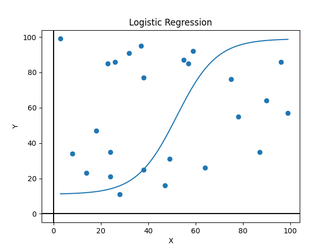
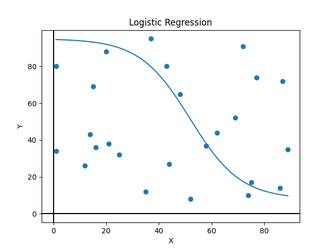
Logistic curve

diff --git a/analyze.py b/analyze.py
@@ -10,85 +10,85 @@ from sklearn.metrics import confusion_matrix
 
 
 class Analyzer(object):
-    def __init__(self):
-        self.debug = Debugger()
+  def __init__(self):
+    self.debug = Debugger()
 
-    def class_name(self):
-        return "Analyzer"
+  def class_name(self):
+    return "Analyzer"
 
-    def get_confusion_matrix(self, model, threshold):  # Harry
-        # model --> Model
-        ds = model.get_dataset()
-        y_true = ds.get_output_col()  # --> [5,3,8,1,6,0] = y_true
-        y_pred = []
-        for x in ds.get_input_cols():
-            y_pred.append(model.get_f()(x))
-        #                     f(x)
-        #                           vs.  y
-        tp, tn, fp, fn = []
-        for y_p, y_t in zip(y_pred, y_true):
-            if y_t > threshold:
-                if y_p > threshold:
-                    tp += 1
-                else:
-                    fn += 1
-            else:
-                if y_p > threshold:
-                    fp += 1
-                else:
-                    tn += 1
-        return [[tp, fp], [fn, tn]]
+  def get_confusion_matrix(self, model, threshold):
+    # model --> Model
+    ds = model.get_dataset()
+    y_true = ds.get_output_col()  # --> [5,3,8,1,6,0] = y_true
+    y_pred = []
+    for x in ds.get_input_cols():
+      y_pred.append(model.get_f()(x))
+    #                     f(x)
+    #                           vs.  y
+    tp, tn, fp, fn = []
+    for y_p, y_t in zip(y_pred, y_true):
+      if y_t > threshold:
+        if y_p > threshold:
+          tp += 1
+        else:
+          fn += 1
+      else:
+        if y_p > threshold:
+          fp += 1
+        else:
+          tn += 1
+      return [[tp, fp], [fn, tn]]
 
-    def get_tp(self, model, threshold):
-        return self.get_confusion_matrix(model, threshold)[0][0]
+  def get_tp(self, model, threshold):
+      return self.get_confusion_matrix(model, threshold)[0][0]
 
-    def get_fp(self, model, threshold):
-        return self.get_confusion_matrix(model, threshold)[1][0]
+  def get_fp(self, model, threshold):
+      return self.get_confusion_matrix(model, threshold)[1][0]
 
-    def get_fn(self, model, threshold):
-        return self.get_confusion_matrix(model, threshold)[0][1]
+  def get_fn(self, model, threshold):
+      return self.get_confusion_matrix(model, threshold)[0][1]
 
-    def get_tn(self, model, threshold):
-        return self.get_confusion_matrix(model, threshold)[1][1]
+  def get_tn(self, model, threshold):
+      return self.get_confusion_matrix(model, threshold)[1][1]
 
-    def get_specificity(self, model, threshold):  # Harry
-        # https://en.wikipedia.org/wiki/Sensitivity_and_specificity
-        tn = self.get_tn()
-        fp = self.get_fp()
-        return (tn / (tn + fp))
+  def get_specificity(self, model, threshold):  # Harry
+      # https://en.wikipedia.org/wiki/Sensitivity_and_specificity
+      tn = self.get_tn()
+      fp = self.get_fp()
+      return (tn / (tn + fp))
 
-    def get_sensitivity(self):  # Harry
-        tp = self.get_tp()
-        fn = self.get_fn()
-        return (tp / (tp + fn))
+  def get_sensitivity(self):  # Harry
+      tp = self.get_tp()
+      fn = self.get_fn()
+      return (tp / (tp + fn))
 
-    def get_precision(self):  # Harry
-        tp = self.get_tp()
-        fp = self.get_fp()
-        return (tp / (tp + fp))
+  def get_precision(self):  # Harry
+      tp = self.get_tp()
+      fp = self.get_fp()
+      return (tp / (tp + fp))
 
-    def get_recall(self):  # Harry
-        tp = self.get_tp()
-        fn = self.get_fn()
-        return (tp / (tp + fn))
+  def get_recall(self):  # Harry
+      tp = self.get_tp()
+      fn = self.get_fn()
+      return (tp / (tp + fn))
 
-    def get_accuracy(self):  # Harry
-        tp = self.get_tp()
-        tn = self.get_tn()
-        fp = self.get_fp()
-        fn = self.get_fn()
-        return ((tp + fn)/(tp + tn + fp + fn))
+  def get_accuracy(self):  # Harry
+      tp = self.get_tp()
+      tn = self.get_tn()
+      fp = self.get_fp()
+      fn = self.get_fn()
+      return ((tp + fn)/(tp + tn + fp + fn))
 
-    def get_fallout(self):  # Harry
-        fp = self.get_fp()
-        tn = self.get_tn()
-        return (fp/(fp + tn))
+  def get_fallout(self):  # Harry
+      fp = self.get_fp()
+      tn = self.get_tn()
+      return (fp/(fp + tn))
 
-    def get_bias(self):  # Harry
-        pass
+  def get_bias(self):  # Harry
+       pass
 
-    def get_mean(self):  # Harry
-        pass
+  def get_mean(self):  # Harry
+       pass
 
 
 
@@ -98,7 +98,7 @@ class Analyzer(object):
     pass
 
 
-	
+
   def get_variance(self, coords, f):
     return self.get_ss_res(coords, f) / len(coords[0])
   def get_r_sq(self, model):
@@ -162,10 +162,10 @@ class Analyzer(object):
     for i in range(trials):
       x_vals = g.randomizer.random_list(g.points_to_gen, g.lower_x_bound, g.upper_x_bound)
       y_vals = g.randomizer.random_list(g.points_to_gen, g.lower_y_bound, g.upper_y_bound)
-      
+
       if model_type == LinearModel:
         slope, yint = self.least_squares_slope_yint_eqn(x_vals, y_vals)
-        func = lambda x : slope * x + yint 
+        func = lambda x : slope * x + yint
       else:
         g.debug.prn(self, 'Incompatible model type.', 1)
         break
@@ -175,7 +175,7 @@ class Analyzer(object):
       p_fit = 2 # TODO: Update for Dataframe
       p_mean = 1 # ""
       n = len(x_vals)
-      
+
       if ss_fit == 0 or (n - p_fit) == 0 or (p_fit - p_mean) == 0:
         self.debug.prn(self, 'F distribution cannot divide by zero.', 1)
         continue
@@ -184,16 +184,16 @@ class Analyzer(object):
 
       histogram.add_x(numerator / denominator)
       histogram.set_bins()
-    
+
     plotter.load(histogram)
     plotter.save()
     plotter.close()
     image_manager.scale('imgs/f.png', 'imgs/f.png', 250)
     self.debug.prn(self, 'F distribution created.')
-  
+
 class DataSet(object):
   def __init__(self, data):
-    self.data = pd.DataFrame(data) 
+    self.data = pd.DataFrame(data)
     g.debug.prn(self, "DataSet initialized.")
   def __str__(self):
     g.debug.prn(self, "Convert DataSet to string.")
@@ -222,7 +222,7 @@ class DataSet(object):
     for row in indices:
       lst.append(self.data[row].tolist())
     return lst
-  def get_input_cols(self): # dependant variables 
+  def get_input_cols(self): # dependant variables
     self.get_cols(self.get_label()[:-1])
   def get_output_col(self): # independant variables
     self.get_cols(self.get_label()[-1])
@@ -235,7 +235,7 @@ class DataSet(object):
     if type(indices) != list and type(col_names) != list:
       return self.get_cols(col_names)[indices]
     lst = []
-    for col, index in zip(col_names, indices): 
+    for col, index in zip(col_names, indices):
       lst.append(self.get_cols(col)[index])
     return lst
     # dataset.get_datum(["x2", "x1"],[5, 3])
@@ -249,7 +249,7 @@ class Cleaner(object):
   def delete_rows(self, ds, rows):
     for row in rows:
       pass
-      # Delete row code. 
+      # Delete row code.
   def replace_values(self, ds):
     pass
   def reformat(self, ds):
@@ -271,7 +271,7 @@ class Cleaner(object):
     pass
   def _report(self, ds):
     pass
-  
+
 
 '''
 
@@ -298,6 +298,6 @@ y=ax+bz+c
 # Ben     --> Models
 
 # Tasks:
-# Dataset hooked up w visualize. 
+# Dataset hooked up w visualize.
 # Analyzer
 # Models

diff --git a/model.py b/model.py
@@ -39,8 +39,6 @@ class Modeller(object):
   def get_logistic(self, x, y):
     i = len(self.logistic_models) + 1
     m, b = g.analyzer.least_squares_slope_yint_eqn(x, y)
-    line = LinearModel(lambda x : m * x + b, x, y, i)
-    print(line)
     f = lambda x : (math.e ** ((m * x) + (-m * b))) / (1 + (math.e ** ((m * x) + (-m * b))))
     logistic_model = LogisticModel(f, x, y, i)
     logistic_model.plot()
@@ -170,7 +168,6 @@ class LogisticModel(Model):
     y_vals = []
     for x in range(min_x * 100, max_x * 100):
       y_adjust = self.f(x / 100) * (max_y - min_y) + min_y
-      print(f'{x / 100} --> {self.f(x / 100)}')
       x_vals.append([x / 100])
       y_vals.append([y_adjust])
     sketches.append(SmoothSketch())
